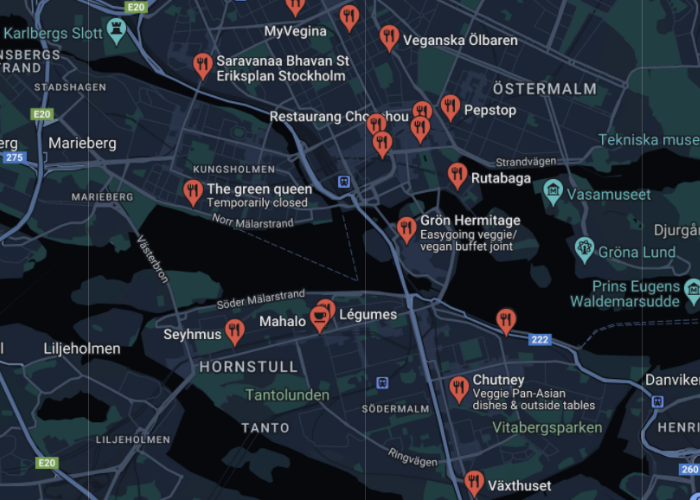
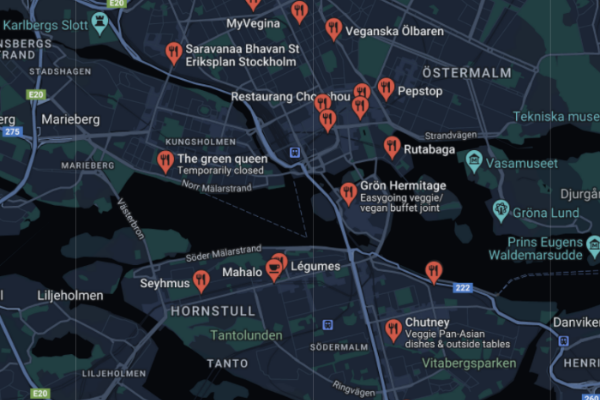
deleted unwanted code and images

diff --git a/src/components/Footer.jsx b/src/components/Footer.jsx
@@ -1,24 +1,23 @@
-import React from "react";
-import facebook from "../assets/images/footericons/facebook.png";
-import linkedin from "../assets/images/footericons/linkedin.png";
-import twitter from "../assets/images/footericons/twitter.png";
+import facebookURL from "../assets/images/footericons/facebook.png";
+import linkedinURL from "../assets/images/footericons/linkedin.png";
+import twitterURL from "../assets/images/footericons/twitter.png";
 
 export default function Footer() {
   return (
     <div className="footer_links">
       <div className="social_media">
         <a href="https://facebook.com" target="_blank" rel="noreferrer">
-          <img src={facebook} className="footer_image" alt="github_icon" />
+          <img src={facebookURL} className="footer_image" alt="github_icon" />
         </a>
         <a
           href="https://www.linkedin.com/in/radhadoreswamy/"
           target="_blank"
           rel="noreferrer"
         >
-          <img src={linkedin} className="footer_image" alt="linkedin" />
+          <img src={linkedinURL} className="footer_image" alt="linkedin" />
         </a>
         <a href="https://www.twitter.com/" target="_blank" rel="noreferrer">
-          <img src={twitter} className="footer_image" alt="linkedin" />
+          <img src={twitterURL} className="footer_image" alt="linkedin" />
         </a>
       </div>
       <div className="copy_right">

diff --git a/src/styles/pages/home.css b/src/styles/pages/home.css
@@ -1,8 +1,6 @@
 .home_page {
   display: flex;
   flex-direction: column;
-  justify-content: center;
-  align-items: center;
   width: 100%;
   background-color: var(--color-bg);
 }
@@ -14,7 +12,6 @@
   margin: auto;
   justify-content: center;
   align-items: center;
-  align-content: center;
 }
 
 .hero_img {
@@ -26,15 +23,13 @@
   position: absolute;
   background-size: cover;
   background-position: center;
-  opacity: 0.6;
+  opacity: 0.4;
 }
 
 .hero_content {
   display: flex;
   position: relative;
-  align-items: center;
   text-align: center;
-  justify-content: center;
   flex-direction: column;
 }
 .hero_content h1 {
@@ -43,7 +38,7 @@
   font-family: "laila", sans-serif;
 }
 .hero_content span {
-  font-size: 30px;
+  font-size: 36px;
   color: var(--color-primary);
   font-weight: 800px;
   font-style: italic;
@@ -51,7 +46,7 @@
 }
 .home_list {
   display: flex;
-  max-width: 1200px;
+  max-width: 1800px;
   margin: 0 auto;
   flex-wrap: wrap;
 }

diff --git a/src/styles/components/homemenucard.css b/src/styles/components/homemenucard.css
@@ -24,34 +24,25 @@
 
 .menu_right {
   flex: 1;
-  justify-content: center;
-  align-items: center;
-  justify-items: center;
-  text-align: center;
 }
 .menu_right h2 {
   color: #03384b;
   text-align: center;
-  font-family: "laila", sans-serif;
   font-weight: 700;
+  margin-bottom: 0;
 }
 .menu_description {
   display: flex;
   align-items: center;
   justify-content: center;
   text-align: left;
-  margin: 0 50px;
-}
-.menu_description p {
+  margin: var(--space-ultra);
+  font-family: "Raleway", sans-serif;
   color: #03384b;
-  text-align: center;
-  font-family: "georgia", sans-serif;
-  font-weight: 500;
-  letter-spacing: 0.1rem;
 }
 .btn_primary {
   display: flex;
-  margin: 20px auto;
+  margin: 30px auto;
   padding: 5px 10px;
   font-size: 14px;
   text-transform: uppercase;

diff --git a/src/pages/Product.jsx b/src/pages/Product.jsx
@@ -1,15 +1,12 @@
-import React from "react";
-import categorydata from "../data/categorydata.json";
-import ProductCard from "../components/ProductCard";
+import { useParams, Link } from "react-router-dom";
 import Ingredients from "../components/Ingredients";
-import { useParams } from "react-router-dom";
 import NutritionFactTable from "../components/NutritionFactTable";
-import { Link } from "react-router-dom";
+import ProductCard from "../components/ProductCard";
+import categorydata from "../data/categorydata.json";
 
 export default function Product() {
   const { title } = useParams();
   const { id } = useParams();
-
   const { products } = categorydata.find((item) => item.title === title);
   const productDetail = products.find((item) => item.id === Number(id));
 

diff --git a/src/pages/Home.jsx b/src/pages/Home.jsx
@@ -1,10 +1,9 @@
-import React from "react";
 import Hero from "../assets/home.jpg";
 import homemenu from "../data/homepagedata.json";
 import HomeMenuCard from "../components/HomeMenuCard";
 
 export default function Home() {
-  const CategoryList = homemenu.map((data) => (
+  const HomeMenusList = homemenu.map((data) => (
     <HomeMenuCard key={data.id} data={data} />
   ));
 
@@ -21,7 +20,7 @@ export default function Home() {
           <span>Eat beet, not meat!</span>
         </div>
       </div>
-      <div className="home_list">{CategoryList}</div>
+      <div className="home_list">{HomeMenusList}</div>
     </div>
   );
 }

diff --git a/src/styles/components/nutritiontable.css b/src/styles/components/nutritiontable.css
@@ -6,8 +6,28 @@
   text-align: center;
 }
 
-table,
-tr,
-td {
-  border: 1px solid;
+table {
+  border: 4px solid var(--color-primary);
+  border-collapse: collapse;
+  border-spacing: 0;
+  margin-bottom: 20px;
+}
+
+.nutrition_table td,
+tr {
+  padding: 0 10px;
+}
+.nutrition_table tr {
+  line-height: 1.5;
+  border-bottom: 1px solid var(--color-primary);
+  vertical-align: baseline;
+}
+.nutrition_table td {
+  border: 2px solid var(--color-primary);
+}
+
+.table_heading td {
+  border-top: 3px solid var(--color-primary);
+  border-bottom: 3px solid var(--color-primary);
+  font-weight: 600;
 }

diff --git a/src/styles/pages/category.css b/src/styles/pages/category.css
@@ -17,11 +17,10 @@
 .category_header h2 {
   color: #fff;
   text-align: center;
-  width: 30%;
-  border-radius: 20px;
-  font-family: "laila", sans-serif;
+  width: 40%;
+  border-radius: 5px;
   font-weight: 700;
-  margin-bottom: 30px;
+  margin-bottom: var(--space-ultra);
   background-color: var(--color-primary);
 }
 
@@ -47,12 +46,11 @@
 
 @media screen and (max-width: 900px) {
   .category_header h2 {
-    width: 50%;
+    width: 60%;
   }
 }
 @media screen and (max-width: 500px) {
   .category_header {
     margin: 130px 10px 10px 10px;
-    border: 2px solid red;
   }
 }

diff --git a/src/styles/components/categorycard.css b/src/styles/components/categorycard.css
@@ -11,7 +11,6 @@
 }
 .card_left {
   flex-basis: 40%;
-
   height: 300px;
   justify-content: left;
 }
@@ -25,14 +24,12 @@
 }
 
 .card_right h2 {
-  font-family: "laila", sans-serif;
   font-weight: 700;
   font-size: 30px;
 }
 
 .card_right p {
   font-family: "Satisfy", sans-serif;
-  font-weight: 500;
   letter-spacing: 0.1rem;
 }
 
@@ -40,7 +37,9 @@
   .card_content {
     flex-direction: column;
     width: 80%;
-    border: 2px solid green;
+  }
+  .card_right h2 {
+    text-align: center;
   }
   @media screen and (max-width: 500px) {
     .card_content {

diff --git a/src/styles/components/contactinfo.css b/src/styles/components/contactinfo.css
@@ -4,8 +4,7 @@
   justify-content: center;
   align-items: center;
   text-align: center;
-  margin: 20px;
-  justify-items: center;
+  margin: 30px;
   box-shadow: 0 4px 8px 0 rgba(0, 0, 0, 0.2);
   transition: 0.3s;
   color: var(--color-primary);
@@ -19,4 +18,5 @@
 .contact_info span {
   font-family: "Satisfy", sans-serif;
   letter-spacing: 1px;
+  padding: 5px;
 }

diff --git a/src/styles/components/productcard.css b/src/styles/components/productcard.css
@@ -16,7 +16,6 @@
 .product_header h2 {
   color: var(--color-primary);
   text-align: center;
-  font-family: "laila", sans-serif;
   font-weight: 700;
   margin: 30px 0px;
 }
@@ -24,7 +23,6 @@
 .product_header p {
   color: #03384b;
   font-family: "Satisfy", sans-serif;
-  font-weight: 500;
   letter-spacing: 0.1rem;
   width: 70%;
   text-align: left;

diff --git a/src/styles/base/typography.css b/src/styles/base/typography.css
@@ -13,6 +13,7 @@ h1 {
 h2 {
   font-size: 36px;
   line-height: 1.5;
+  font-family: "laila", sans-serif;
 }
 
 p {
@@ -23,4 +24,12 @@ p {
 h3 {
   font-size: 24px;
   line-height: 1.5;
+  font-family: "laila", sans-serif;
+  margin-bottom: 0;
+  color: var(--color-primary);
+}
+
+ul {
+  margin-top: 0;
+  margin-bottom: var(--space-big);
 }

diff --git a/src/pages/Contact.jsx b/src/pages/Contact.jsx
@@ -1,8 +1,7 @@
-import React from "react";
 import CHEF from "../assets/chef.png";
 import ContactInfo from "../components/ContactInfo";
 import FormInput from "../components/FormInput";
-import Map from "../assets/mapnew.png";
+import Map from "../assets/map.png";
 
 export default function Contact() {
   return (
